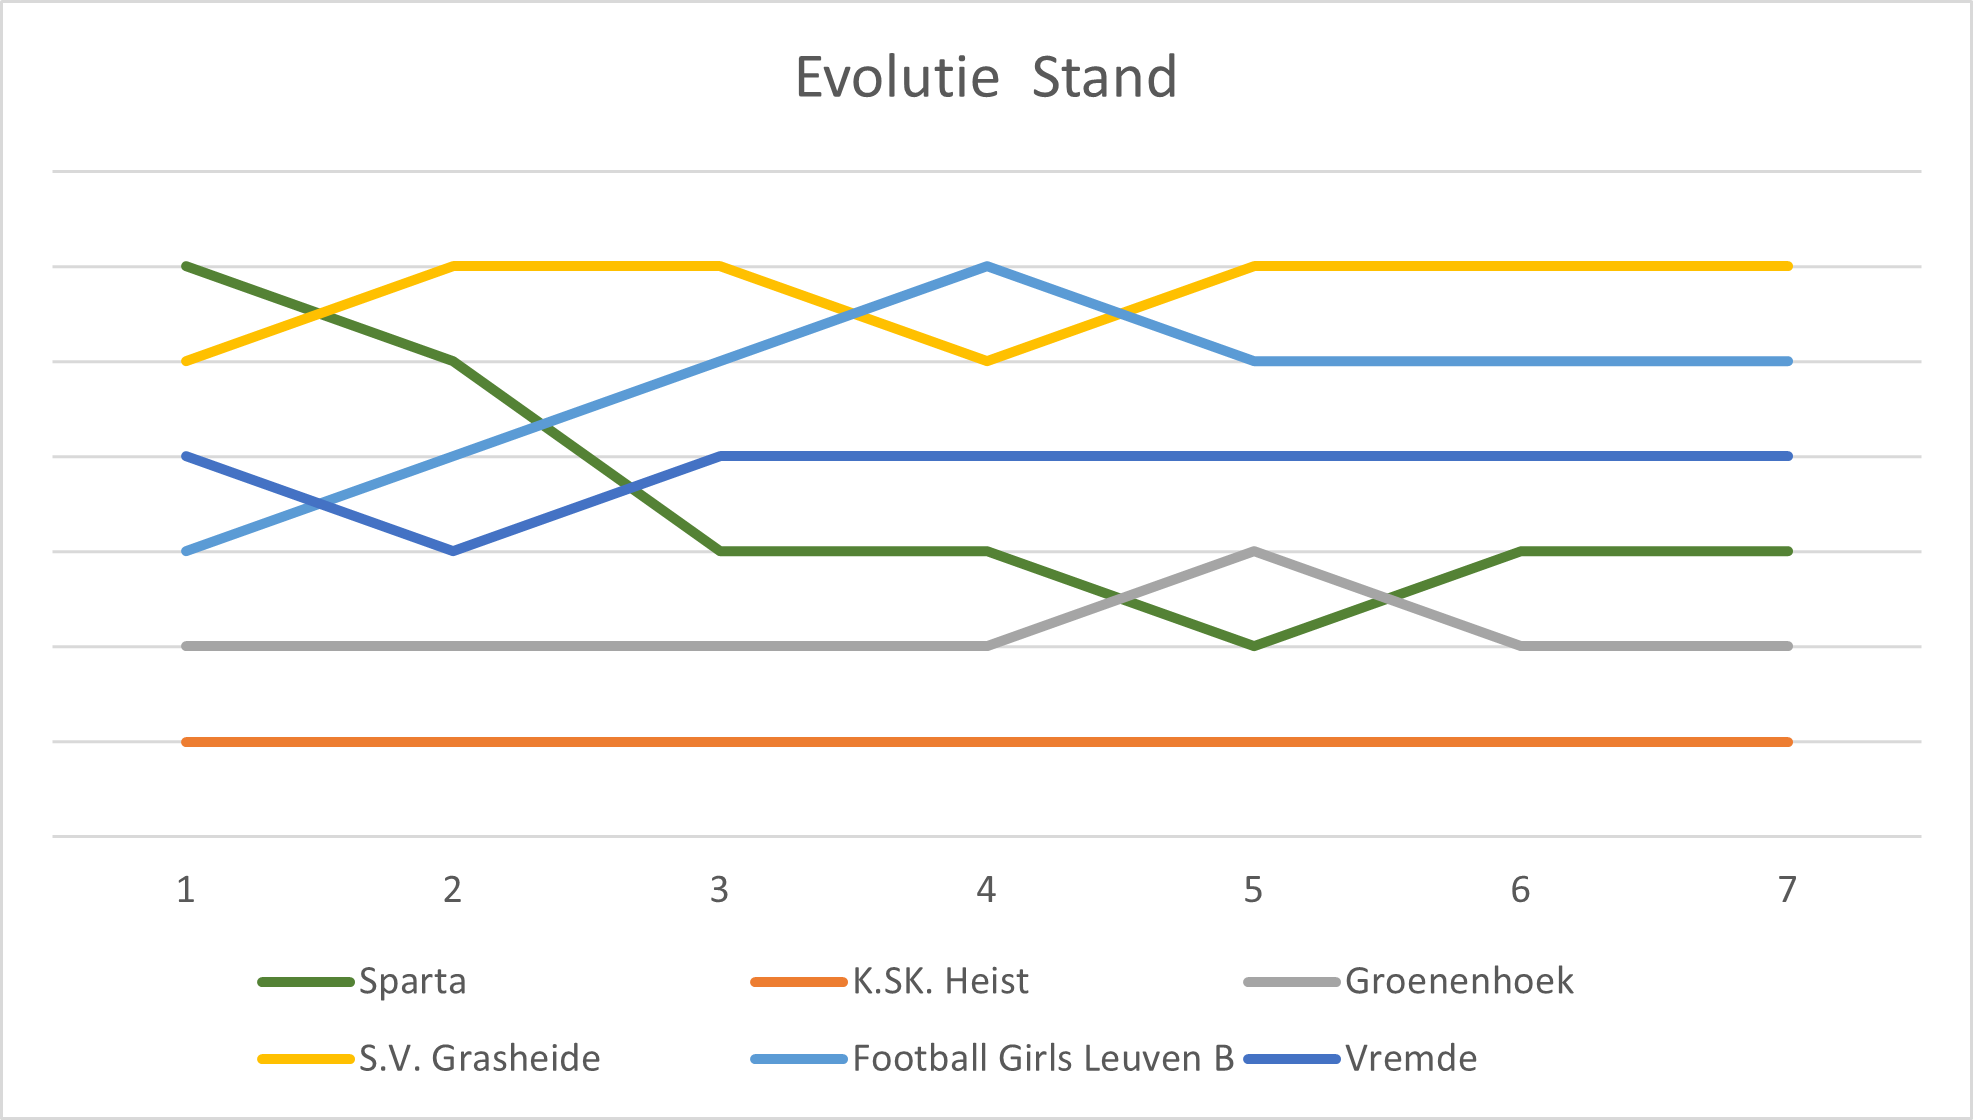
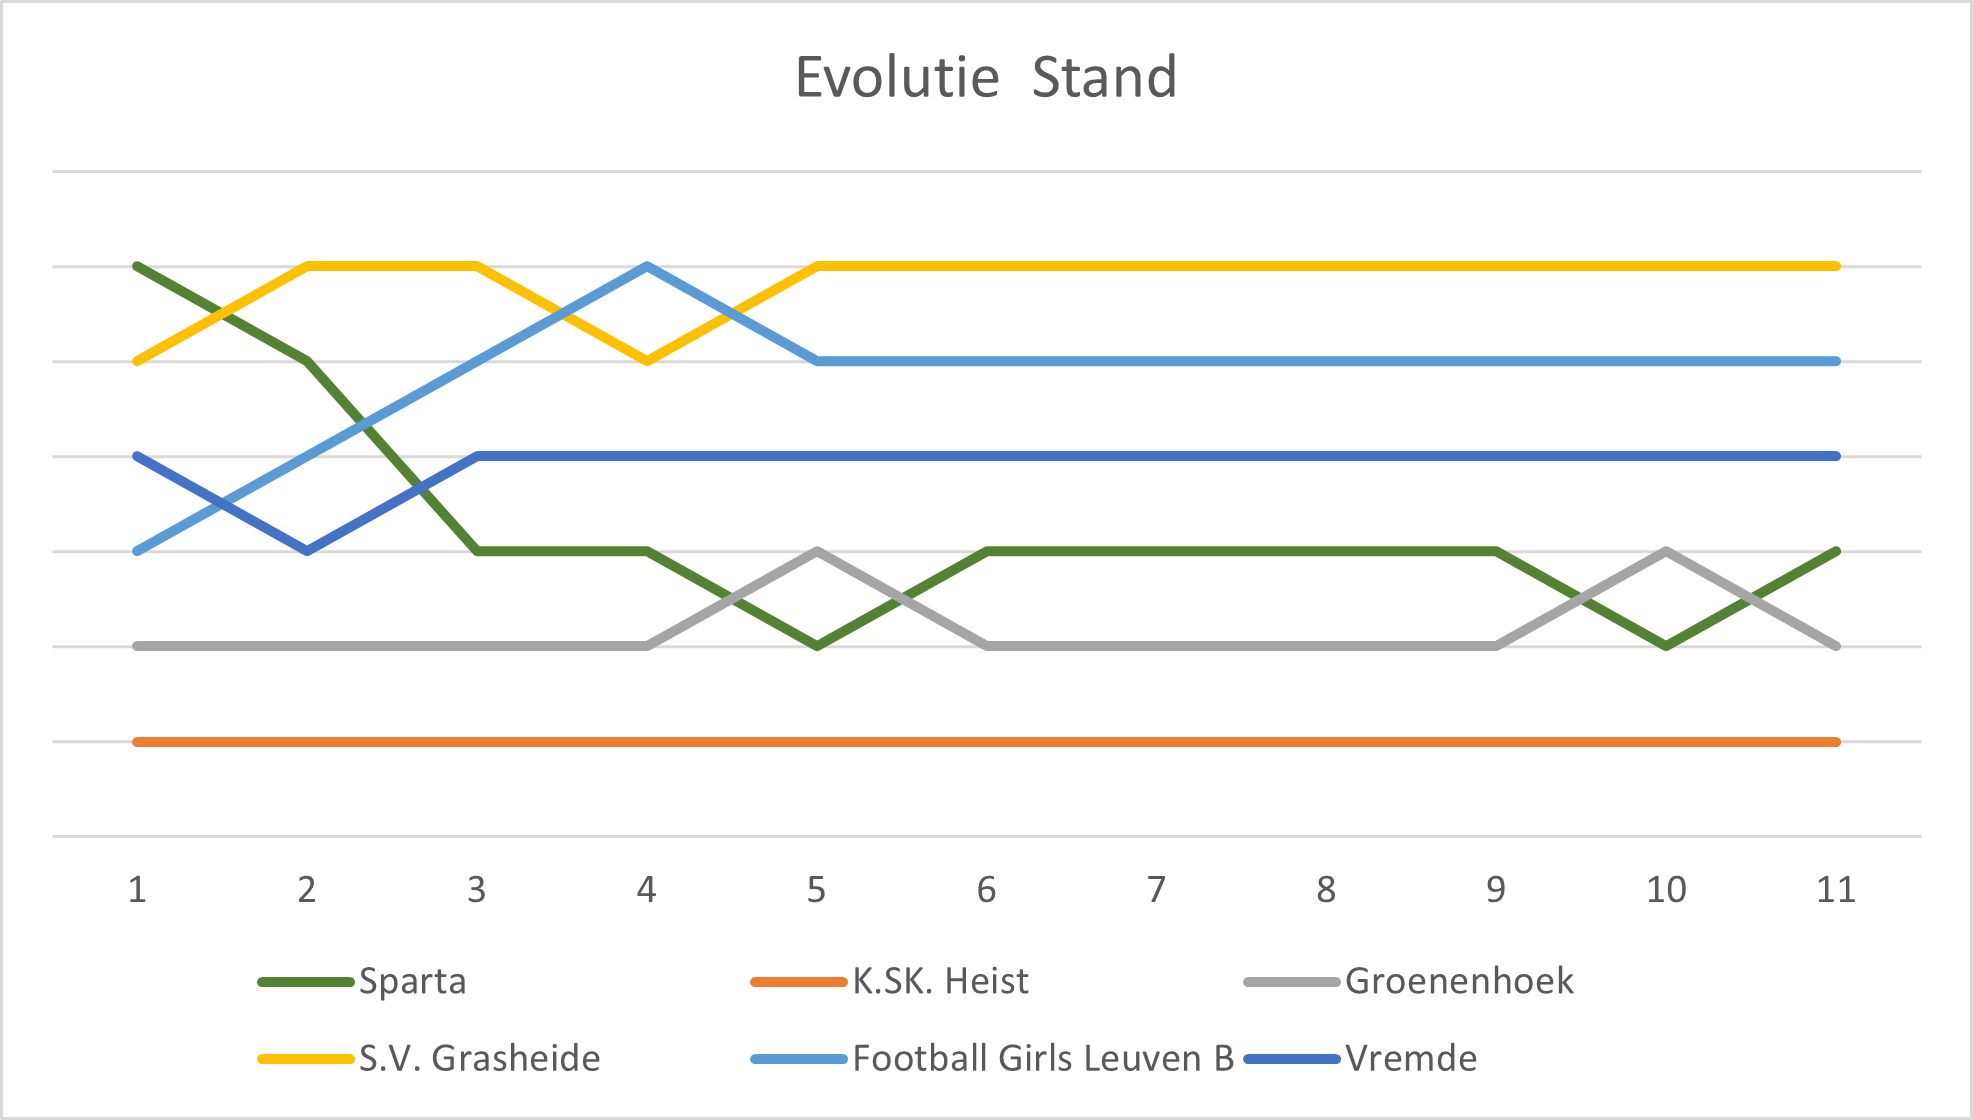
Update player's attendance and improve formatting in part1.md

diff --git a/2425/part1.md b/2425/part1.md
@@ -7,12 +7,12 @@ Op deze pagina vind je allerlei nuttige informatie & afspraken voor 2024/2025 - 
 
 ## Volgende wedstrijd info
 
-> Volgende wedstrijd is thuis op zondag 20 oktober tegen Grasheide om 10.00 (09.00 ter plaatse)
+<!-- > Volgende wedstrijd is thuis op zondag 20 oktober tegen Grasheide om 10.00 (09.00 ter plaatse) -->
 
-<!-- > Volgende wedstrijd is op zondag 5 oktober tegen K.SK. Heist om 12.30 (11.30 ter plaatse)
-> <br>[Adres](https://www.google.com/maps?ll=51.066819,4.733734&z=16&t=m&hl=nl&gl=US&mapclient=embed&cid=14429946998776962015):
-> <br>Lostraat 50
-> <br>2220 Heist-op-den-Berg -->
+> Volgende wedstrijd is op zater 16 november tegen Groenenhoek om 14.45 (13.45 ter plaatse)
+> <br>[Adres](https://www.google.com/maps/place/K.+Groenenhoek+Sport/@51.194683,4.455304,1250m/data=!3m1!1e3!4m6!3m5!1s0x47c3f75c716f9749:0x19f6e17c5589868f!8m2!3d51.1946832!4d4.4553041!16s%2Fg%2F11b_01r76w?hl=nl&entry=ttu&g_ep=EgoyMDI0MDkwMi4xIKXMDSoASAFQAw%3D%3D):
+> <br>Ruimtevaartlaan 20
+> <br>2100 Antwerpen
 
 | Selectie | Opmerking   |
 | -------- | ----------- |
@@ -57,7 +57,6 @@ Op deze pagina vind je allerlei nuttige informatie & afspraken voor 2024/2025 - 
 
 | Datum  | Thuis | Uit | Tegenstander                                                                                                                                                                                                                                                                                      | Dag         | Uur   |
 | ------ | :---: | :-: | ------------------------------------------------------------------------------------------------------------------------------------------------------------------------------------------------------------------------------------------------------------------------------------------------- | ----------- | ----- |
-| 10 nov |  ✅   |     | K.SK. Heist                                                                                                                                                                                                                                                                                       | zondag      | 10.00 |
 | 16 nov |       | ✅  | [Groenenhoek](https://www.google.com/maps/place/K.+Groenenhoek+Sport/@51.194683,4.455304,1250m/data=!3m1!1e3!4m6!3m5!1s0x47c3f75c716f9749:0x19f6e17c5589868f!8m2!3d51.1946832!4d4.4553041!16s%2Fg%2F11b_01r76w?hl=nl&entry=ttu&g_ep=EgoyMDI0MDkwMi4xIKXMDSoASAFQAw%3D%3D)                         | zaterdag    | 14.45 |
 | 24 nov |       | ✅  | [S.V. Grasheide](https://www.google.com/maps/dir/50.9633571,4.6060733/Galeistraat+5a,+2580+Putte/@51.0025639,4.5295929,20084m/data=!3m2!1e3!4b1!4m9!4m8!1m1!4e1!1m5!1m1!1s0x47c158867ffab109:0x94776ad0dff81be1!2m2!1d4.6506754!2d51.0401053?entry=ttu&g_ep=EgoyMDI0MDkwMi4xIKXMDSoASAFQAw%3D%3D) | zondag      | 11.15 |
 | 1 dec  |  ✅   |     | Football Girls Leuven B                                                                                                                                                                                                                                                                           | zondag      | 10.00 |
@@ -77,7 +76,7 @@ Op deze pagina vind je allerlei nuttige informatie & afspraken voor 2024/2025 - 
 | 20 okt |  ✅   |     | S.V. Grasheide          | ⬇2-3   |
 | 26 okt |       | ✅  | Football Girls Leuven B | ⬇6-1   |
 | 3 nov  |  ✅   |     | Vremde                  | ⬇2-5   |
-| 10 nov |  ✅   |     | K.SK. Heist             | ❓      |
+| 10 nov |  ✅   |     | K.SK. Heist             | 🏆6-1   |
 | 16 nov |       | ✅  | Groenenhoek             | ❓      |
 | 24 nov |       | ✅  | S.V. Grasheide          | ❓      |
 | 1 dec  |  ✅   |     | Football Girls Leuven B | ❓      |
@@ -96,39 +95,39 @@ Op deze pagina vind je allerlei nuttige informatie & afspraken voor 2024/2025 - 
 
 | Team                    | PTS | M   | W   | V   | G   | +   | -   | +/- |
 | ----------------------- | --- | --- | --- | --- | --- | --- | --- | --- |
-| S.V. Grasheide          | 22  | 8   | 7   | 0   | 1   | 34  | 11  | 23  |
-| Football Girls Leuven B | 15  | 7   | 5   | 2   | 0   | 38  | 14  | 24  |
-| Vremde                  | 13  | 7   | 4   | 2   | 1   | 31  | 15  | 16  |
-| Sparta                  | 8   | 7   | 2   | 3   | 2   | 28  | 20  | 8   |
-| Groenenhoek             | 5   | 7   | 1   | 4   | 2   | 19  | 17  | 2   |
-| K.SK. Heist             | 0   | 8   | 0   | 8   | 0   | 3   | 76  | -73 |
+| S.V. Grasheide          | 29  | 11  | 9   | 0   | 2   | 51  | 14  | 37  |
+| Football Girls Leuven B | 22  | 11  | 7   | 3   | 1   | 53  | 25  | 28  |
+| Vremde                  | 19  | 9   | 6   | 2   | 1   | 42  | 21  | 21  |
+| Sparta                  | 11  | 10  | 3   | 5   | 2   | 37  | 32  | 5   |
+| Groenenhoek             | 8   | 10  | 2   | 6   | 2   | 40  | 33  | 7   |
+| K.SK. Heist             | 0   | 11  | 0   | 11  | 0   | 9   | 107 | -98 |
 
 ### Doelpunten
 
 | Naam    | 01-Sept | 07-Sept | 15-Sept | 22-Sept | 14-Dec | 05-Oct | 13-Oct | 20-Oct | 26-Oct | 03-Nov | 10-Nov | 16-Nov | 24-Nov | 24-Nov | 01-Dec | 05-Dec | Totaal |
 | ------- | :-----: | :-----: | :-----: | :-----: | :----: | :----: | :----: | :----: | :----: | :----: | :----: | :----: | :----: | :----: | :----: | :----: | :----: |
-| Ella    |    2    |         |         |    1    |        |   2    |        |        |   1    |   1    |        |        |        |        |        |        |   5    |
-| Gitte   |    2    |         |         |         |        |   1    |        |   1    |        |        |        |        |        |        |        |        |   4    |
+| Ella    |    2    |         |         |    1    |        |   2    |        |        |   1    |   1    |   2    |        |        |        |        |        |   9    |
+| Gitte   |    2    |         |         |         |        |   1    |        |   1    |        |        |   1    |        |        |        |        |        |   5    |
+| Lisa    |    3    |         |         |         |        |        |        |        |        |   1    |   1    |        |        |        |        |        |   5    |
 | Marie   |    3    |         |         |    1    |        |        |        |        |        |        |        |        |        |        |        |        |   4    |
-| Lisa    |    3    |         |         |         |        |        |        |        |        |        |        |        |        |        |        |        |   3    |
-| Margue  |    1    |         |         |         |        |   1    |        |   1    |        |   1    |        |        |        |        |        |        |   3    |
+| Margue  |    1    |         |         |         |        |   1    |        |   1    |        |        |        |        |        |        |        |        |   3    |
+| Nina    |    1    |         |         |         |        |   1    |        |        |        |        |   1    |        |        |        |        |        |   3    |
 | Esmee   |    2    |         |         |         |        |        |        |        |        |        |        |        |        |        |        |        |   2    |
 | Féliz   |         |    1    |         |         |        |   1    |        |        |        |        |        |        |        |        |        |        |   2    |
-| Nina    |    1    |         |         |         |        |   1    |        |        |        |        |        |        |        |        |        |        |   2    |
 | Auke    |         |         |         |         |        |   1    |        |        |        |        |        |        |        |        |        |        |   1    |
+| Imke    |         |         |         |         |        |        |        |        |        |        |   1    |        |        |        |        |        |   1    |
 | Lize    |    1    |         |         |         |        |        |        |        |        |        |        |        |        |        |        |        |   1    |
 | Tille   |    1    |         |         |         |        |        |        |        |        |        |        |        |        |        |        |        |   1    |
 | Dee_Dee |         |         |         |         |        |        |        |        |        |        |        |        |        |        |        |        |   0    |
 | Febe    |         |         |         |         |        |        |        |        |        |        |        |        |        |        |        |        |   0    |
-| Imke    |         |         |         |         |        |        |        |        |        |        |        |        |        |        |        |        |   0    |
 | Julia   |         |         |         |         |        |        |        |        |        |        |        |        |        |        |        |        |   0    |
 | Lore    |         |         |         |         |        |        |        |        |        |        |        |        |        |        |        |        |   0    |
 | Morane  |         |         |         |         |        |        |        |        |        |        |        |        |        |        |        |        |   0    |
 | Tessa   |         |         |         |         |        |        |        |        |        |        |        |        |        |        |        |        |   0    |
 | Yanaika |         |         |         |         |        |        |        |        |        |        |        |        |        |        |        |        |   0    |
-| Totaal  |   16    |    1    |    0    |    2    |   0    |   7    |   0    |   2    |   1    |   2    |   0    |   0    |   0    |   0    |   0    |   0    |   31   |
-| Tegen   |    0    |    1    |    5    |   11    |   0    |   0    |   0    |   0    |   6    |   5    |   0    |   0    |   0    |   0    |   0    |   0    |   28   |
-|         |         |         |         |         |        |        |        |        |        |        |        |        |        |        |        | Saldo  |   3    |
+| Totaal  |   16    |    1    |    0    |    2    |   0    |   7    |   0    |   2    |   1    |   2    |   6    |   0    |   0    |   0    |   0    |   0    |   37   |
+| Tegen   |    0    |    1    |    5    |   11    |   0    |   0    |   0    |   3    |   6    |   5    |   1    |   0    |   0    |   0    |   0    |   0    |   32   |
+|         |         |         |         |         |        |        |        |        |        |        |        |        |        |        |        | Saldo  |   5    |
 
 ### Speel Schema
 
